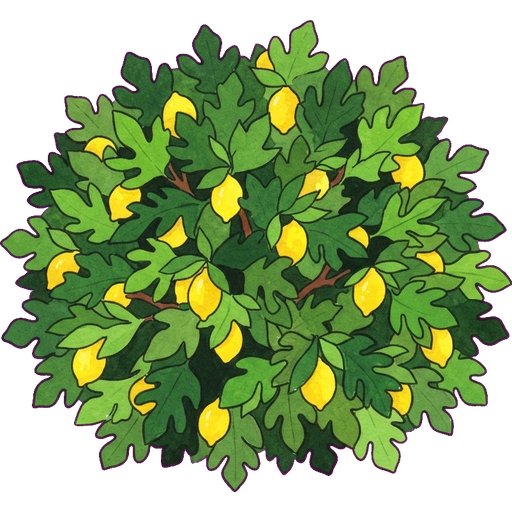
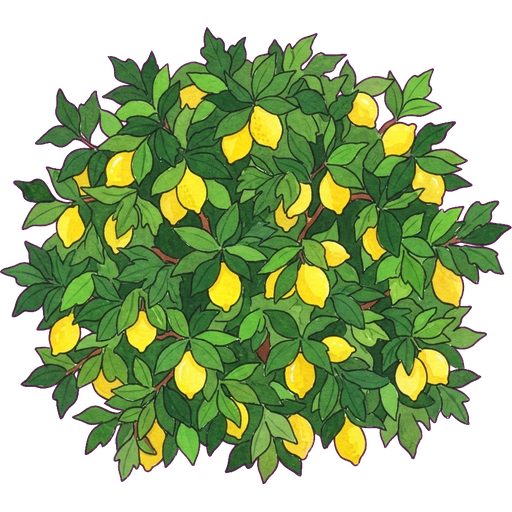
Sticker: replace Lemon Tree (magenta BG, full region CA-US-FR-GB-AU, remove old orphan)

diff --git a/app/src/hooks/usePlantCatalog.js b/app/src/hooks/usePlantCatalog.js
@@ -141,7 +141,7 @@ export const PLANT_CATALOG = [
   // ── Fruit Trees ───────────────────────────────────────────────────────────────
   { key:'tree-fruit_apple',                label:'Apple Tree',          family:'Fruit Tree',           src:'/stickers/tree-fruit_apple_XXL_CA-US-FR-GB-AU.png',                size:'XXL' },
   { key:'tree-fruit_cherry',               label:'Cherry Tree',         family:'Fruit Tree',           src:'/stickers/tree-fruit_cherry_XXL_CA-US-FR-GB-AU.png',               size:'XXL' },
-  { key:'tree-fruit_lemon',                label:'Lemon Tree',          family:'Fruit Tree',           src:'/stickers/tree-fruit_lemon_XXL_US-FR-AU.png',                      size:'XXL' },
+  { key:'tree-fruit_lemon',                label:'Lemon Tree',          family:'Fruit Tree',           src:'/stickers/tree-fruit_lemon_XXL_CA-US-FR-GB-AU.png',                size:'XXL' },
   { key:'tree-fruit_peach',                label:'Peach Tree',          family:'Fruit Tree',           src:'/stickers/tree-fruit_peach_XXL_CA-US-FR-AU.png',                   size:'XXL' },
   { key:'tree-fruit_pear',                 label:'Pear Tree',           family:'Fruit Tree',           src:'/stickers/tree-fruit_pear_XXL_CA-US-FR-GB-AU.png',                 size:'XXL' },
   { key:'tree-fruit_plum',                 label:'Plum Tree',           family:'Fruit Tree',           src:'/stickers/tree-fruit_plum_XXL_CA-US-FR-GB-AU.png',                 size:'XXL' },
